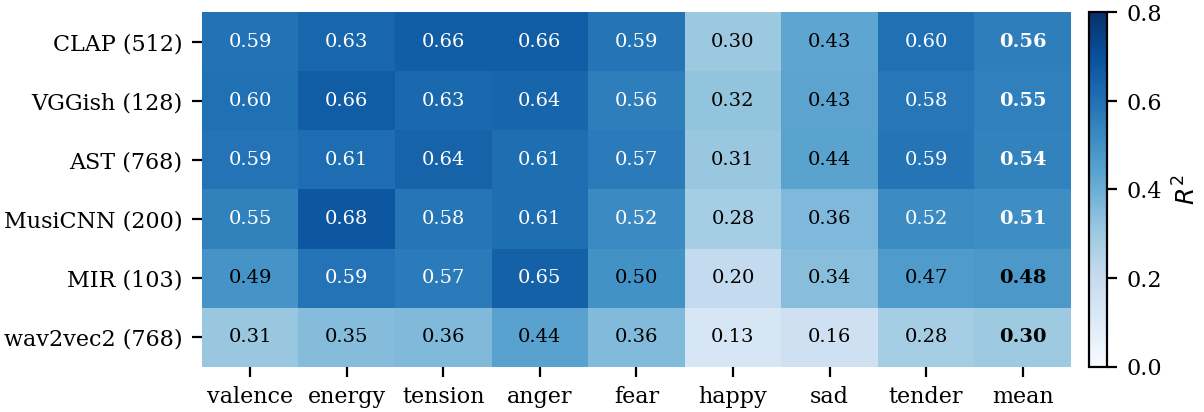
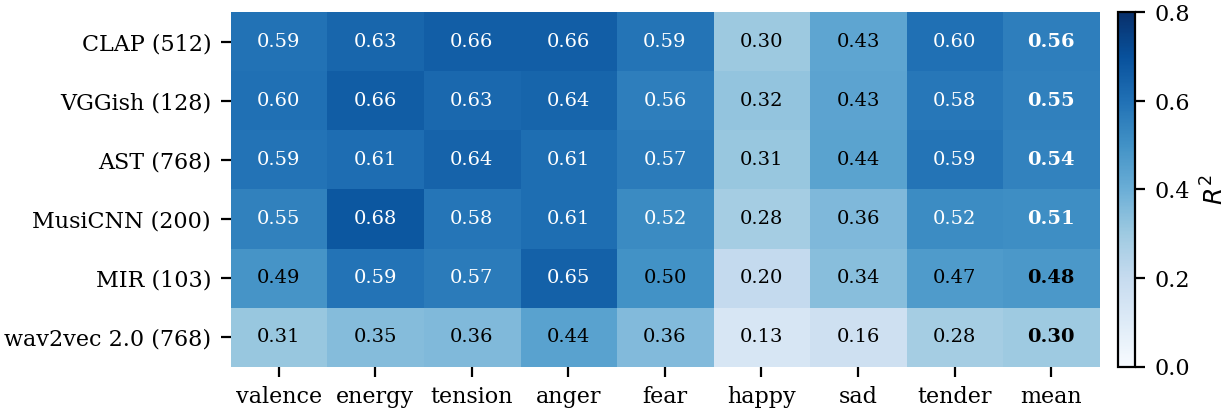
Figure check: film count read from results, clipped axis labels and covered markers fixed; stale 41-film counts in Methods and Discussion; audit flags old film counts

diff --git a/docs/latex/chapters/2_analysis.tex b/docs/latex/chapters/2_analysis.tex
@@ -73,7 +73,7 @@ In Table~\ref{tab:label_spaces}, the entries are the number of clips carrying ea
 \paragraph{(b) The five-genre subset.} In prior work on film audio, the number of modelled genres grows with the size of the dataset. At a scale comparable to this one, \citet{austin2010characterization} model four genres over 98 films, and \citet{ma2021computational}, who also work from soundtracks, reduce the IMDb genres to six for their 110 films. The eighteen-genre study of \citet{mangolin2020multimodal} and the nine-genre study of \citet{behrouzi2023multimodal} rest on thousands of films. Compared with this, eight genres from 42 soundtracks is ambitious, and three of them are poorly supported. Biography and Documentary have fewer than 25 clips each. Adventure is frequent but has no distinctive emotional signature (every $|d| \le 0.25$; Section~\ref{sec:eval_signatures}), so it is unlikely to be recoverable from emotional features. Results are therefore reported both on all eight genres and on a curated subset of five (Action, Crime, Drama, Comedy and Horror), which are established in the literature and have a measurable emotional signature here. Under the any-present rule the subset contains 329 clips from 40 films. The eight-genre results show the limits imposed by rare and affectively indistinct genres; the five-genre results describe performance where the approach is applicable and form the main in-domain setting.
 
 \paragraph{(c) The six-genre space shared with Blockbuster.}
-A model can only be transferred between two datasets if it predicts the same classes in both. The two genre inventories differ, however: Crime, Adventure, Biography and Documentary do not exist in the Blockbuster annotation, and Sci-Fi and Romance are not among the eight Eerola genres. Both datasets are therefore relabelled into one shared space of six genres, namely Action, Drama, Comedy, Sci-Fi, Romance and Horror. These six were adopted from \citet{ma2021computational} rather than chosen here, and the rule they used to reduce the IMDb genres to them was recovered from their published film--genre master list rather than assumed. It is the identity rule: a film carries reduced genre $g$ if and only if $g$ occurs in its raw IMDb genre list, which holds for all 110 of their films without exception. This is the any-present rule already applied to the Eerola annotations, so both datasets enter the shared space under the same rule and without any dataset-specific heuristic. On Eerola it retains 319 clips from 41 films.
+A model can only be transferred between two datasets if it predicts the same classes in both. The two genre inventories differ, however: Crime, Adventure, Biography and Documentary do not exist in the Blockbuster annotation, and Sci-Fi and Romance are not among the eight Eerola genres. Both datasets are therefore relabelled into one shared space of six genres, namely Action, Drama, Comedy, Sci-Fi, Romance and Horror. These six were adopted from \citet{ma2021computational} rather than chosen here, and the rule they used to reduce the IMDb genres to them was recovered from their published film--genre master list rather than assumed. It is the identity rule: a film carries reduced genre $g$ if and only if $g$ occurs in its raw IMDb genre list, which holds for all 110 of their films without exception. This is the any-present rule already applied to the Eerola annotations, so both datasets enter the shared space under the same rule and without any dataset-specific heuristic. On Eerola it retains 319 clips from 40 films.
 
 \begin{table}[t]
   \centering

diff --git a/experiments/make_figures.py b/experiments/make_figures.py
@@ -106,12 +106,15 @@ def fig_indomain():
                     fmt="o", color=c, ms=5, capsize=2, lw=1.2)
         ax.scatter(v["clip_level_mean"], i, s=18, facecolors="none", edgecolors=c, lw=0.9,
                    zorder=3, label="clip level, same predictions" if i == 0 else None)
-        ax.text(v["ci_hi"] + 0.004, i, f"{v['mean']:.3f}", va="center", fontsize=7)
+        # right of the whisker and of the clip-level marker, so the number never covers it
+        ax.text(max(v["ci_hi"], v["clip_level_mean"]) + 0.006, i, f"{v['mean']:.3f}",
+                va="center", fontsize=7)
     ax.set_yticks(range(len(rows)), [r[0] for r in rows])
     floor_line(ax, arms["dummy"]["mean"], "most-frequent baseline")
     floor_line(ax, d["subset5"]["random_guess_film"], "base-rate random guess", ":")
     floor_legend(ax, "lower right")
-    ax.set_xlabel("film-level macro-F1, 41 films (bars: 95% film bootstrap)")
+    ax.set_xlabel(f"film-level macro-F1, {d['subset5']['n_films']} films "
+                  "(bars: 95% film bootstrap)")
     hi = max(v["ci_hi"] for _, v in rows)
     ax.set_xlim(0.14, hi + 0.05)
     save(fig, "indomain_eerola5")
@@ -206,7 +209,7 @@ def fig_zero_shot():
     p2 = b["predicted-emotion vs PCA-8 control"]["p_two_sided"]
     ax.text(0.99, 1.02, f"film bootstrap: emotion vs direct p = {p1:.3f}, "
             f"vs PCA-8 p = {p2:.3f}", transform=ax.transAxes, ha="right", fontsize=7)
-    ax.set_xlabel("film-level macro-F1 on the 110 Blockbuster films (6 shared genres), "
+    ax.set_xlabel("film-level macro-F1 on the 110 Blockbuster films (6 shared genres),\n"
                   "trained on Eerola only")
     ax.set_xlim(0, 0.6)
     save(fig, "zero_shot")
@@ -324,7 +327,8 @@ def fig_stage1():
                     color="white" if M[i, j] > 0.5 else "black",
                     fontweight="bold" if j == M.shape[1] - 1 else "normal")
     ax.set_xticks(range(len(emos) + 1), emos + ["mean"])
-    ax.set_yticks(range(len(order)), [k.replace("-", " (") + ")" for k in order])
+    ax.set_yticks(range(len(order)), [k.replace("wav2vec2", "wav2vec 2.0").replace("-", " (") + ")"
+                                      for k in order])
     ax.spines[:].set_visible(False)
     fig.colorbar(im, ax=ax, fraction=0.03, pad=0.02, label="$R^2$")
     save(fig, "stage1_r2")
@@ -345,7 +349,7 @@ def fig_ablation():
                     fmt="o", color=col, ms=4, capsize=2, lw=1)
     ax.axvline(0, color="k", lw=0.8)
     ax.set_yticks(range(len(comps)), [c["a"] for c in comps])
-    ax.set_xlabel("difference to all eight emotions (film-level macro-F1; bars: 95% bootstrap)")
+    ax.set_xlabel("difference to all eight emotions\n(film-level macro-F1; bars: 95% bootstrap)")
     save(fig, "ablation")
 
 

diff --git a/experiments/audit_consistency.py b/experiments/audit_consistency.py
@@ -189,6 +189,14 @@ for fname, keys in tex_checks.items():
             problems.append(f'[tex drift] docs/latex/{fname} does not quote {quoted} '
                             f'for {key} -- the chapter copy and the JSON disagree')
 
+# Film counts from before the duplicate-film merge (log section 24) must not survive in the
+# chapters or in the figure script: 43 / 41 films became 42 / 40.
+for p in sorted((ROOT / 'docs' / 'latex' / 'chapters').glob('*.tex')) + [ROOT / 'experiments' / 'make_figures.py']:
+    text = io.open(p, encoding='utf-8', newline='').read()
+    for m in re.finditer(r'\b(41|43)\s+(?:test\s+|Eerola\s+)?films\b', text):
+        problems.append(f'[stale count] {p.relative_to(ROOT)} says "{m.group(0)}" '
+                        f'(42 / 40 films since the duplicate fix)')
+
 # ------------------------------------- 3. zero_shot: regimes must be consistent --
 boot = zs.get('bootstrap', {})
 if set(boot) != set(zs['zero_shot']):

diff --git a/docs/latex/chapters/3_evaluation.tex b/docs/latex/chapters/3_evaluation.tex
@@ -391,7 +391,9 @@ In Figure~\ref{fig:blockbuster_cv}, each bar is the mean over the 50 folds and t
 bar the standard deviation of the ten repeat means; the dotted line is the base-rate
 random guess (0.295). The emotion route is applied per cue and its emotions averaged per
 film; ``majority vote over cues'' classifies each cue and lets the cues vote, as in the
-best model of \citet{ma2021computational}.
+best model of \citet{ma2021computational}. The light blue bars are hand-crafted features
+published with the dataset (all 140 MIR descriptors, and the 78 of them from the MFCC
+family) and a random eight-dimensional projection of the VGGish embedding.
 
 In-domain on Blockbuster, the emotion route (0.616 $\pm$ 0.022) is level with
 direct audio. It is nominally ahead of the film-average VGGish embedding (0.593;

diff --git a/docs/latex/chapters/discussion.tex b/docs/latex/chapters/discussion.tex
@@ -69,7 +69,7 @@ Blockbuster films, the emotion route beats direct audio by $+0.106$ ($p=0.013$) 
 control by $+0.093$ ($p=0.027$). Its lead is again partly recall-driven. In the reverse
 direction it is ahead in both precision (0.407 against 0.362) and recall (0.631
 against 0.490), which a shift of the decision threshold alone cannot produce, but the
-difference in $F_1$ is not significant over 41 test films. Whether the zero-shot advantage
+difference in $F_1$ is not significant over 40 test films. Whether the zero-shot advantage
 survives a threshold tuned on the source dataset was not tested (Section~\ref{sec:futurework}).
 
 \section{Why the Bottleneck Helps Where It Does}

diff --git a/docs/README.md b/docs/README.md
@@ -1676,6 +1676,15 @@ negatives, derived from the per-genre clip precision and recall in `film_level.j
   paragraph on the metrics dominated by frequent genres), together with a correction of
   that paragraph: weighted-F1 is the one metric of its block that the always-Drama dummy
   does not win.
+- **Figure check (15 Oct, Overleaf `4a77de0`).** All ten figures regenerate identically
+  from the results files (PNG byte-identical, PDF differs only in its timestamp) and the
+  Overleaf copies equal the repository's. Fixed: the in-domain axis said "41 films" (now
+  read from `film_level.json`: 40) and two value labels covered clip markers; the
+  zero-shot and ablation axis labels were cut off at the right edge; "wav2vec2" in the
+  Stage 1 heatmap renamed "wav2vec 2.0". In the text, "41 films" survived in Methods
+  (shared space) and in the Discussion (reverse transfer), now 40; the MFCC and
+  random-projection bars of the Blockbuster chart are explained in Chapter 5. The audit
+  now flags any "41 / 43 films" in the chapters or the figure script.
 
 ## Next steps
 
